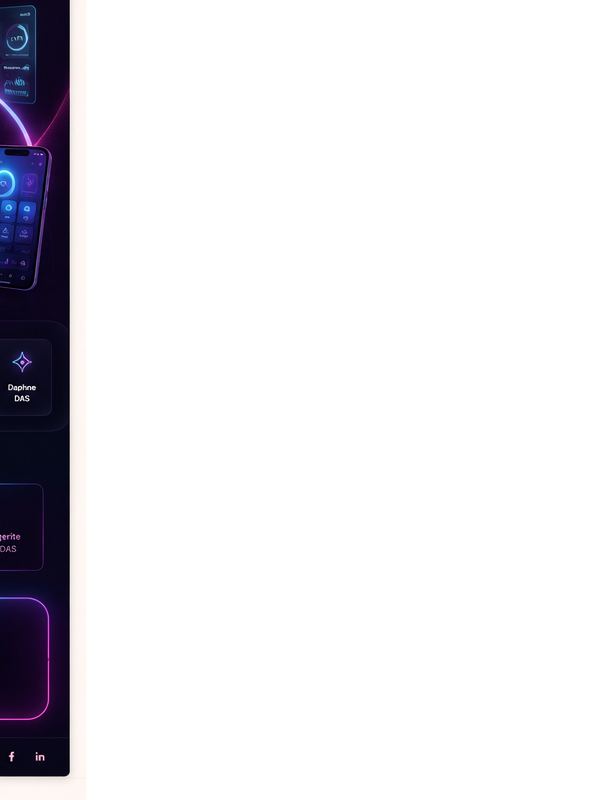
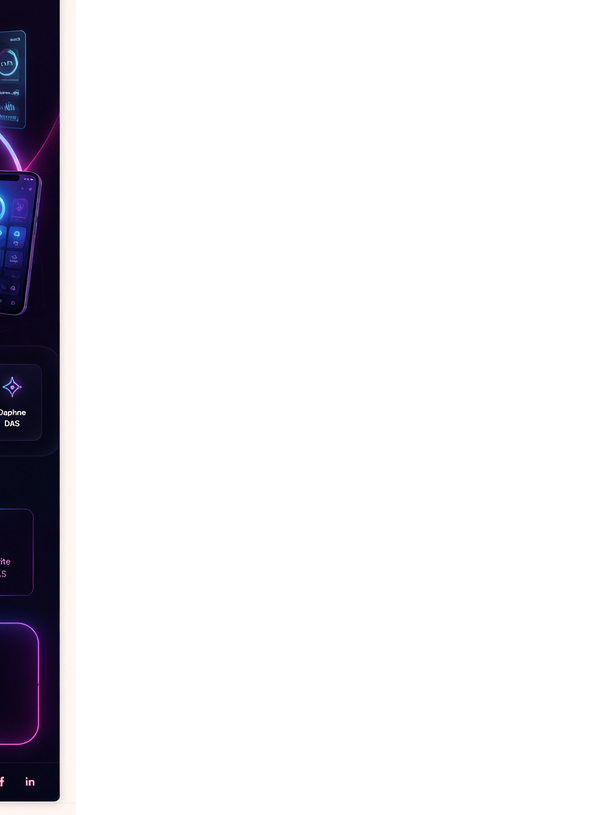
exp v3

Changed region(s): [[0.0, 0.0, 0.122, 1.0], [0.0, 0.4375, 0.061, 0.5312], [0.0, 0.5938, 0.0305, 0.625]]

diff --git a/js/experience.js b/js/experience.js
@@ -1,5 +1,4 @@
 const systemStatus=document.getElementById("system-status");
-const statusWrap=document.querySelector(".status");
 const daphneState=document.getElementById("daphne-state");
 const daphneTitle=document.getElementById("daphne-title");
 const daphneCopy=document.getElementById("daphne-copy");
@@ -10,38 +9,34 @@ const moduleTitle=document.getElementById("module-title");
 const analysisStatus=document.getElementById("analysis-status");
 const navButtons=[...document.querySelectorAll(".module-nav button")];
 const moduleViews=[...document.querySelectorAll(".module-view")];
-const conversation=document.getElementById("conversation");
 const form=document.getElementById("conversation-form");
 const input=document.getElementById("conversation-input");
 const quick=document.getElementById("quick");
+const pauseButton=document.getElementById("pause");
+const prevButton=document.getElementById("prev");
+const nextButton=document.getElementById("next");
 const restart=document.getElementById("restart");
 
 const scenes=[
-  {id:"agenda",step:"01 · Osservo",state:"DAPHNE STA GUARDANDO L’AGENDA",title:"Partirei da qui.",copy:"Vedo una finestra libera nella cabina 3. Prima di cercare nuovi clienti, proverei a riempire ciò che hai già disponibile.",label:"AGENDA",moduleTitle:"Guardo dove il centro perde tempo.",duration:4500,progress:25},
-  {id:"clients",step:"02 · Collego",state:"DAPHNE STA COLLEGANDO I DATI",title:"Aspetta.",copy:"Queste sette clienti stanno entrando nella zona di inattività. È qui che il centro può perdere fatturato senza accorgersene.",label:"CLIENTI",moduleTitle:"Cerco chi rischia di non tornare.",duration:5000,progress:50},
-  {id:"marketing",step:"03 · Agisco",state:"DAPHNE PREPARA UN’AZIONE",title:"Non parlerei a tutte.",copy:"Preparerei una comunicazione diversa solo per chi ha davvero motivo di tornare adesso.",label:"MARKETING",moduleTitle:"Scelgo chi contattare e come.",duration:5000,progress:75},
-  {id:"insights",step:"04 · Decido",state:"DAPHNE INTERPRETA I NUMERI",title:"Ora il quadro è più chiaro.",copy:"Il fatturato sta crescendo, ma il ritorno clienti può crescere di più. È da lì che inizierei domani mattina.",label:"BUSINESS INTELLIGENCE",moduleTitle:"Collego i numeri prima di decidere.",duration:5500,progress:100}
+  {id:"agenda",step:"01 · Agenda",state:"DAPHNE OSSERVA",title:"Partirei da qui.",copy:"Vedo una finestra libera nella cabina 3. Prima di cercare nuovi clienti, proverei a riempire ciò che hai già disponibile.",label:"AGENDA",moduleTitle:"Guardo dove il centro perde tempo."},
+  {id:"clients",step:"02 · Clienti",state:"DAPHNE COLLEGA",title:"Aspetta.",copy:"Queste sette clienti stanno entrando nella zona di inattività. È qui che il centro può perdere fatturato senza accorgersene.",label:"CLIENTI",moduleTitle:"Cerco chi rischia di non tornare."},
+  {id:"marketing",step:"03 · Marketing",state:"DAPHNE AGISCE",title:"Non parlerei a tutte.",copy:"Preparerei una comunicazione diversa solo per chi ha davvero motivo di tornare adesso.",label:"MARKETING",moduleTitle:"Scelgo chi contattare e come."},
+  {id:"insights",step:"04 · Numeri",state:"DAPHNE INTERPRETA",title:"Ora il quadro è più chiaro.",copy:"Il fatturato sta crescendo, ma il ritorno clienti può crescere di più. È da lì che inizierei domani mattina.",label:"BUSINESS INTELLIGENCE",moduleTitle:"Collego i numeri prima di decidere."}
 ];
+
+let current=0;
+let paused=false;
+let timer=null;
+const sceneDuration=11000;
 
 function showModule(id){
   navButtons.forEach(b=>b.classList.toggle("active",b.dataset.module===id));
   moduleViews.forEach(v=>v.classList.toggle("active",v.id===`module-${id}`));
 }
 
-function runScene(index){
-  const scene=scenes[index];
-  if(!scene){
-    daphneState.textContent="DAPHNE";
-    daphneTitle.textContent="Adesso raccontami il tuo centro.";
-    daphneCopy.textContent="Ho voluto mostrarti come lavoro. Ora voglio capire se posso farlo anche per te.";
-    stepLabel.textContent="05 · Ti ascolto";
-    systemStatus.textContent="Daphne è pronta";
-    statusWrap.classList.add("ready");
-    analysisStatus.textContent="Dimostrazione conclusa";
-    conversation.classList.add("show");
-    return;
-  }
-
+function renderScene(index, schedule=true){
+  current=(index+scenes.length)%scenes.length;
+  const scene=scenes[current];
   showModule(scene.id);
   stepLabel.textContent=scene.step;
   daphneState.textContent=scene.state;
@@ -50,14 +45,43 @@ function runScene(index){
   moduleLabel.textContent=scene.label;
   moduleTitle.textContent=scene.moduleTitle;
   analysisStatus.textContent="Daphne sta lavorando";
-  progress.style.width=`${scene.progress}%`;
+  progress.style.width=`${((current+1)/scenes.length)*100}%`;
+  systemStatus.textContent="Daphne è pronta";
 
-  setTimeout(()=>runScene(index+1),scene.duration);
+  clearTimeout(timer);
+  if(schedule && !paused){
+    timer=setTimeout(()=>renderScene(current+1,true),sceneDuration);
+  }
 }
 
-setTimeout(()=>runScene(0),1800);
+renderScene(0,true);
 
-navButtons.forEach(button=>button.addEventListener("click",()=>showModule(button.dataset.module)));
+pauseButton.addEventListener("click",()=>{
+  paused=!paused;
+  pauseButton.textContent=paused?"Riprendi":"Pausa";
+  if(paused){
+    clearTimeout(timer);
+  }else{
+    renderScene(current,true);
+  }
+});
+
+prevButton.addEventListener("click",()=>{
+  clearTimeout(timer);
+  renderScene(current-1,!paused);
+});
+nextButton.addEventListener("click",()=>{
+  clearTimeout(timer);
+  renderScene(current+1,!paused);
+});
+
+navButtons.forEach(button=>button.addEventListener("click",()=>{
+  paused=true;
+  pauseButton.textContent="Riprendi";
+  clearTimeout(timer);
+  const index=scenes.findIndex(s=>s.id===button.dataset.module);
+  renderScene(index,false);
+}));
 
 function moduleFor(text){
   const t=text.toLowerCase();
@@ -85,19 +109,28 @@ function replyFor(text){
 form.addEventListener("submit",event=>{
   event.preventDefault();
   const value=input.value.trim();
-  if(!value) return;
-  showModule(moduleFor(value));
+  if(!value)return;
+
+  paused=true;
+  pauseButton.textContent="Riprendi";
+  clearTimeout(timer);
+
+  const target=moduleFor(value);
+  const index=scenes.findIndex(s=>s.id===target);
+  renderScene(index,false);
+
   daphneState.textContent="DAPHNE STA PENSANDO";
   daphneTitle.textContent="Fammi collegare quello che mi hai detto.";
   daphneCopy.textContent="Sto costruendo una prima lettura del tuo centro.";
   analysisStatus.textContent="Prima lettura in corso";
   input.value="";
+
   setTimeout(()=>{
     daphneState.textContent="PRIMA LETTURA";
     daphneTitle.textContent=replyFor(value);
     daphneCopy.textContent="Sul sito posso mostrarti il metodo. Dentro AESTRA lavorerei sui dati reali.";
     analysisStatus.textContent="Prima lettura pronta";
-  },1800);
+  },2200);
 });
 
 quick.addEventListener("click",event=>{

diff --git a/index.html b/index.html
@@ -4,7 +4,6 @@
   <meta charset="utf-8">
   <meta name="viewport" content="width=device-width,initial-scale=1">
   <title>AESTRA — Daphne Experience</title>
-  <meta name="description" content="AESTRA e Daphne: un nuovo modo di gestire il centro estetico.">
   <link rel="preconnect" href="https://fonts.googleapis.com">
   <link rel="preconnect" href="https://fonts.gstatic.com" crossorigin>
   <link href="https://fonts.googleapis.com/css2?family=Cormorant+Garamond:wght@500;600&family=Inter:wght@400;500;600&display=swap" rel="stylesheet">
@@ -17,26 +16,44 @@
         <span class="brand-symbol">A</span>
         <div><strong>AESTRA</strong><small>Beauty Operating System</small></div>
       </div>
-      <div class="status"><i></i><span id="system-status">Daphne si sta collegando</span></div>
-      <button id="restart">Ricomincia</button>
+      <div class="status"><i></i><span id="system-status">Daphne è pronta</span></div>
+      <div class="top-actions">
+        <button id="pause">Pausa</button>
+        <button id="restart">Ricomincia</button>
+      </div>
     </header>
 
     <section class="stage">
       <aside class="daphne-stage">
-        <div class="portrait-wrap">
-          <div class="portrait-aura"></div>
-          <img src="assets/daphne.png" alt="Daphne, Digital AESTRA Specialist">
+        <div class="portrait">
+          <img src="assets/daphne.png" alt="Daphne">
+          <div class="portrait-fade"></div>
         </div>
 
-        <div class="daphne-dialogue">
+        <div class="dialogue">
           <small id="daphne-state">DAPHNE</small>
           <h1 id="daphne-title">Ciao, sono Daphne.</h1>
-          <p id="daphne-copy">Prima di raccontarti AESTRA, voglio farti vedere come lavorerei con te.</p>
+          <p id="daphne-copy">Raccontami come lavori e proverò a capire se posso aiutarti.</p>
         </div>
 
-        <div class="sequence-progress">
-          <span id="step-label">01 · Ti ascolto</span>
-          <div><i id="progress"></i></div>
+        <form class="conversation" id="conversation-form">
+          <input id="conversation-input" maxlength="500" autocomplete="off" placeholder="Inizia da dove preferisci…">
+          <button type="submit">Parla con Daphne <span>→</span></button>
+        </form>
+
+        <div class="quick" id="quick">
+          <button data-prompt="Ho 4 cabine e 6 collaboratrici.">4 cabine e 6 collaboratrici</button>
+          <button data-prompt="Le clienti non tornano.">Le clienti non tornano</button>
+          <button data-prompt="Voglio aumentare il fatturato.">Aumentare il fatturato</button>
+        </div>
+
+        <div class="sequence-controls">
+          <button id="prev">←</button>
+          <div>
+            <span id="step-label">01 · Agenda</span>
+            <div class="progress"><i id="progress"></i></div>
+          </div>
+          <button id="next">→</button>
         </div>
       </aside>
 
@@ -65,10 +82,7 @@
               <div class="agenda-row"><b>Cabina 3</b><i class="slot sand s6">Epilazione</i><i class="slot free s7">15:30 libera</i><i class="slot lilac s8">Viso</i></div>
               <div class="agenda-row"><b>Cabina 4</b><i class="slot rose s9">Corpo</i><i class="slot green s10">Laser</i></div>
             </div>
-            <div class="insight-note">
-              <small>HO TROVATO</small>
-              <strong>Una finestra che può essere riempita oggi.</strong>
-            </div>
+            <div class="insight-note"><small>HO TROVATO</small><strong>Una finestra che può essere riempita oggi.</strong></div>
           </div>
 
           <div class="module-view" id="module-clients">
@@ -77,29 +91,23 @@
               <article><span>SC</span><div><strong>Sara C.</strong><small>Pacchetto viso quasi concluso</small></div><b>Da contattare</b></article>
               <article><span>AL</span><div><strong>Anna L.</strong><small>Follow-up mancante</small></div><b>Oggi</b></article>
             </div>
-            <div class="insight-note">
-              <small>HO TROVATO</small>
-              <strong>Sette clienti che rischiano di non tornare.</strong>
-            </div>
+            <div class="insight-note"><small>HO TROVATO</small><strong>Sette clienti che rischiano di non tornare.</strong></div>
           </div>
 
           <div class="module-view" id="module-marketing">
             <div class="campaign">
               <small>SEGMENTO CONSIGLIATO</small>
               <h3>Clienti inattive da 45–90 giorni</h3>
-              <p>Non invierei lo stesso messaggio a tutte. Preparerei una comunicazione personale, legata al trattamento precedente.</p>
+              <p>Preparerei una comunicazione personale, legata al trattamento precedente.</p>
               <div class="campaign-preview"><span>Anteprima</span><strong>“È passato un po’ di tempo…”</strong></div>
               <button>Prepara campagna</button>
             </div>
-            <div class="insight-note">
-              <small>HO DECISO</small>
-              <strong>Chi contattare, quando e con quale messaggio.</strong>
-            </div>
+            <div class="insight-note"><small>HO DECISO</small><strong>Chi contattare, quando e con quale messaggio.</strong></div>
           </div>
 
           <div class="module-view" id="module-insights">
             <div class="chart">
-              <svg viewBox="0 0 900 300" aria-label="Andamento">
+              <svg viewBox="0 0 900 300">
                 <defs><linearGradient id="area" x1="0" y1="0" x2="0" y2="1"><stop offset="0" stop-color="#c96f78" stop-opacity=".28"/><stop offset="1" stop-color="#c96f78" stop-opacity="0"/></linearGradient></defs>
                 <path class="chart-area" d="M0 246 C95 234,140 162,225 187 C306 210,360 112,438 142 C528 176,568 91,660 109 C744 126,793 58,900 45 L900 300 L0 300Z"/>
                 <path class="chart-line" d="M0 246 C95 234,140 162,225 187 C306 210,360 112,438 142 C528 176,568 91,660 109 C744 126,793 58,900 45"/>
@@ -110,32 +118,12 @@
                 <span><strong>82%</strong><small>occupazione</small></span>
               </div>
             </div>
-            <div class="insight-note">
-              <small>LA MIA LETTURA</small>
-              <strong>Il fatturato cresce, ma il ritorno clienti può crescere di più.</strong>
-            </div>
+            <div class="insight-note"><small>LA MIA LETTURA</small><strong>Il fatturato cresce, ma il ritorno clienti può crescere di più.</strong></div>
           </div>
-
-          <section class="conversation" id="conversation">
-            <div>
-              <small>ADESSO RACCONTAMI IL TUO CENTRO</small>
-              <h2>Voglio capire se posso aiutarti davvero.</h2>
-            </div>
-            <form id="conversation-form">
-              <input id="conversation-input" maxlength="500" autocomplete="off" placeholder="Inizia da dove preferisci…">
-              <button type="submit">Parla con Daphne <span>→</span></button>
-            </form>
-            <div class="quick" id="quick">
-              <button data-prompt="Ho 4 cabine e 6 collaboratrici.">4 cabine e 6 collaboratrici</button>
-              <button data-prompt="Le clienti non tornano.">Le clienti non tornano</button>
-              <button data-prompt="Voglio aumentare il fatturato.">Aumentare il fatturato</button>
-            </div>
-          </section>
         </div>
       </section>
     </section>
   </main>
-
   <script src="js/experience.js"></script>
 </body>
 </html>

diff --git a/css/experience.css b/css/experience.css
@@ -1,24 +1,25 @@
 :root{--bg:#f7efec;--paper:#fffdfa;--ink:#241918;--muted:#7f6a66;--rose:#be6973;--deep:#443033;--line:#e8d9d5}
 *{box-sizing:border-box}html,body{margin:0;height:100%;font-family:Inter,sans-serif;background:var(--bg);color:var(--ink)}button,input{font:inherit}
-.experience{height:100vh;min-height:780px;overflow:hidden;background:radial-gradient(circle at 24% 22%,rgba(225,159,156,.17),transparent 30%),linear-gradient(180deg,#fffaf8,#f5ece9)}
+.experience{height:100vh;min-height:780px;overflow:hidden;background:radial-gradient(circle at 22% 20%,rgba(225,159,156,.17),transparent 30%),linear-gradient(180deg,#fffaf8,#f5ece9)}
 .topbar{height:70px;display:grid;grid-template-columns:1fr auto 1fr;align-items:center;padding:0 24px;border-bottom:1px solid var(--line);background:rgba(255,253,250,.95);position:relative;z-index:20}
-.brand{display:flex;align-items:center;gap:10px}.brand-symbol{width:36px;height:36px;border:1px solid #cfa9a4;border-radius:50%;display:grid;place-items:center;color:var(--rose);font:600 19px "Cormorant Garamond",serif}.brand strong,.brand small{display:block}.brand strong{font:600 18px "Cormorant Garamond",serif;letter-spacing:.12em}.brand small{font-size:8px;color:#9d817c}.status{font-size:9px;color:#78645f}.status i{display:inline-block;width:7px;height:7px;border-radius:50%;background:#d29b72;margin-right:7px}.status.ready i{background:#78aa83}.topbar>button{justify-self:end;border:1px solid var(--line);border-radius:999px;background:#fff;padding:8px 11px;font-size:9px;color:#6f5c57}
-.stage{height:calc(100vh - 70px);display:grid;grid-template-columns:minmax(330px,.72fr) minmax(720px,1.45fr)}
-.daphne-stage{position:relative;padding:42px 32px 28px;overflow:hidden;border-right:1px solid var(--line);background:linear-gradient(160deg,rgba(255,252,249,.86),rgba(246,229,226,.82))}
-.portrait-wrap{position:absolute;inset:0 0 0 0;overflow:hidden}.portrait-wrap img{position:absolute;right:-4%;bottom:-2%;height:92%;width:auto;object-fit:cover;filter:saturate(.92) contrast(1.02)}.portrait-wrap:after{content:"";position:absolute;inset:0;background:linear-gradient(180deg,rgba(250,242,239,.04) 0%,rgba(250,242,239,.14) 46%,rgba(249,239,236,.93) 86%,#f6e9e6 100%),linear-gradient(90deg,#f8efec 0%,rgba(248,239,236,.14) 55%,transparent 100%)}.portrait-aura{position:absolute;right:2%;top:6%;width:72%;height:54%;border-radius:50%;background:radial-gradient(circle,rgba(226,154,154,.28),transparent 70%);filter:blur(24px)}
-.daphne-dialogue{position:relative;z-index:4;max-width:500px}.daphne-dialogue small{font-size:8px;letter-spacing:.16em;color:#9f676a}.daphne-dialogue h1{margin:12px 0 10px;font:600 clamp(45px,4.5vw,72px)/.9 "Cormorant Garamond",serif}.daphne-dialogue p{max-width:430px;margin:0;color:#705c58;font:500 22px/1.25 "Cormorant Garamond",serif}
-.sequence-progress{position:absolute;left:32px;right:32px;bottom:25px;z-index:5}.sequence-progress>span{font-size:8px;letter-spacing:.13em;color:#8f6f6b}.sequence-progress>div{height:4px;margin-top:9px;border-radius:999px;background:rgba(107,74,70,.12);overflow:hidden}.sequence-progress i{display:block;width:0;height:100%;background:linear-gradient(90deg,#bc6670,#e5aaa4);transition:width 2.4s ease}
-.software-stage{position:relative;padding:24px 28px 28px;overflow:hidden}
-.module-nav{height:45px;display:flex;gap:8px;align-items:center}.module-nav button{border:1px solid var(--line);border-radius:999px;background:rgba(255,255,255,.72);padding:9px 12px;font-size:8px;color:#806b66}.module-nav button.active{background:var(--deep);color:white;border-color:var(--deep)}
-.software-shell{position:absolute;left:28px;right:28px;top:76px;bottom:28px;border:1px solid var(--line);border-radius:28px;background:rgba(255,253,250,.95);box-shadow:0 30px 85px rgba(72,43,39,.13);overflow:hidden}
+.brand{display:flex;align-items:center;gap:10px}.brand-symbol{width:36px;height:36px;border:1px solid #cfa9a4;border-radius:50%;display:grid;place-items:center;color:var(--rose);font:600 19px "Cormorant Garamond",serif}.brand strong,.brand small{display:block}.brand strong{font:600 18px "Cormorant Garamond",serif;letter-spacing:.12em}.brand small{font-size:8px;color:#9d817c}.status{font-size:9px;color:#78645f}.status i{display:inline-block;width:7px;height:7px;border-radius:50%;background:#78aa83;margin-right:7px}.top-actions{justify-self:end;display:flex;gap:8px}.top-actions button{border:1px solid var(--line);border-radius:999px;background:#fff;padding:8px 11px;font-size:9px;color:#6f5c57}
+.stage{height:calc(100vh - 70px);display:grid;grid-template-columns:minmax(390px,.8fr) minmax(720px,1.4fr)}
+.daphne-stage{position:relative;padding:34px 30px 26px;overflow:hidden;border-right:1px solid var(--line);background:linear-gradient(160deg,rgba(255,252,249,.9),rgba(246,229,226,.84))}
+.portrait{position:absolute;inset:0;overflow:hidden}.portrait img{position:absolute;right:-3%;bottom:0;height:97%;width:auto;object-fit:cover}.portrait-fade{position:absolute;inset:0;background:linear-gradient(180deg,rgba(249,240,237,.04),rgba(249,240,237,.02) 45%,rgba(249,240,237,.7) 78%,#f5e8e5 100%),linear-gradient(90deg,#f8efec 0%,rgba(248,239,236,.1) 58%,transparent 100%)}
+.dialogue{position:relative;z-index:4;max-width:510px}.dialogue small{font-size:8px;letter-spacing:.16em;color:#9f676a}.dialogue h1{margin:12px 0 10px;font:600 clamp(48px,4.6vw,74px)/.9 "Cormorant Garamond",serif}.dialogue p{max-width:470px;margin:0;color:#705c58;font:500 23px/1.25 "Cormorant Garamond",serif}
+.conversation{position:absolute;left:30px;right:30px;bottom:112px;z-index:5;display:flex;gap:8px;padding:9px;border:1px solid rgba(91,61,57,.12);border-radius:16px;background:rgba(255,253,250,.86);backdrop-filter:blur(18px);box-shadow:0 18px 50px rgba(72,43,39,.08)}
+.conversation input{flex:1;border:0;outline:0;background:transparent;padding:8px 9px;font-size:11px}.conversation button{border:0;border-radius:12px;background:#c96f79;color:white;padding:10px 13px;font-size:8px;font-weight:600}
+.quick{position:absolute;left:30px;right:30px;bottom:72px;z-index:5;display:flex;gap:7px}.quick button{flex:1;border:1px solid rgba(91,61,57,.1);border-radius:10px;background:rgba(255,253,250,.7);color:#7e6964;padding:8px;font-size:7px}
+.sequence-controls{position:absolute;left:30px;right:30px;bottom:24px;z-index:5;display:grid;grid-template-columns:36px 1fr 36px;gap:10px;align-items:center}.sequence-controls>button{width:36px;height:36px;border-radius:50%;border:1px solid rgba(91,61,57,.12);background:rgba(255,253,250,.82);color:#7f6863}.sequence-controls>div>span{font-size:8px;letter-spacing:.12em;color:#8f6f6b}.progress{height:4px;margin-top:7px;border-radius:999px;background:rgba(107,74,70,.12);overflow:hidden}.progress i{display:block;width:25%;height:100%;background:linear-gradient(90deg,#bc6670,#e5aaa4);transition:width 1.4s ease}
+.software-stage{position:relative;padding:22px 26px 26px}.module-nav{height:45px;display:flex;gap:8px;align-items:center}.module-nav button{border:1px solid var(--line);border-radius:999px;background:rgba(255,255,255,.72);padding:9px 12px;font-size:8px;color:#806b66}.module-nav button.active{background:var(--deep);color:white;border-color:var(--deep)}
+.software-shell{position:absolute;left:26px;right:26px;top:72px;bottom:26px;border:1px solid var(--line);border-radius:28px;background:rgba(255,253,250,.95);box-shadow:0 30px 85px rgba(72,43,39,.13);overflow:hidden}
 .software-head{height:105px;padding:23px 26px;display:flex;justify-content:space-between;align-items:flex-start;border-bottom:1px solid var(--line)}.software-head small{font-size:8px;letter-spacing:.15em;color:#9f7974}.software-head h2{margin:8px 0 0;font:600 37px/1 "Cormorant Garamond",serif}.software-head>span{padding:8px 11px;border:1px solid var(--line);border-radius:999px;font-size:8px;color:#806b66}
-.module-view{position:absolute;left:0;right:0;top:105px;bottom:0;padding:22px 24px 120px;opacity:0;transform:translateX(26px);pointer-events:none;transition:opacity 1s ease,transform 1.1s cubic-bezier(.2,.8,.2,1)}.module-view.active{opacity:1;transform:none;pointer-events:auto}
+.module-view{position:absolute;left:0;right:0;top:105px;bottom:0;padding:22px 24px 32px;opacity:0;transform:translateX(18px);pointer-events:none;transition:opacity 1.3s ease,transform 1.4s cubic-bezier(.2,.8,.2,1)}.module-view.active{opacity:1;transform:none;pointer-events:auto}
 .agenda-board,.client-list,.campaign,.chart{height:100%;border:1px solid var(--line);border-radius:22px;background:#fff;padding:22px}
 .hours{display:grid;grid-template-columns:85px repeat(10,1fr);font-size:8px;color:#ac9792}.hours:before{content:""}.hours span{text-align:center}.agenda-row{position:relative;display:grid;grid-template-columns:85px repeat(10,1fr);align-items:center;min-height:62px;border-top:1px solid #efe5e2}.agenda-row b{font-size:9px;color:#7b6762}.agenda-row:after{content:"";position:absolute;left:85px;right:0;top:0;bottom:0;background:repeating-linear-gradient(90deg,transparent 0,transparent calc(10% - 1px),#f3ece9 calc(10% - 1px),#f3ece9 10%)}.slot{z-index:1;padding:10px 7px;border-radius:9px;text-align:center;font:8px Inter,sans-serif;font-style:normal}.rose{background:#f0d8d5}.sand{background:#eee5d8}.lilac{background:#e7deea}.green{background:#e0e9e2}.free{border:1px dashed #d79aa0;background:#fff9f8;color:#bc6971}.s1{grid-column:2/4}.s2{grid-column:5/7}.s3{grid-column:8/11}.s4{grid-column:3/6}.s5{grid-column:7/10}.s6{grid-column:2/5}.s7{grid-column:6/8}.s8{grid-column:9/11}.s9{grid-column:4/7}.s10{grid-column:8/11}
-.insight-note{position:absolute;right:45px;bottom:138px;max-width:420px;padding:15px 17px;border-radius:17px;background:rgba(68,48,51,.95);color:#fff;box-shadow:0 18px 55px rgba(45,26,26,.24)}.insight-note small,.insight-note strong{display:block}.insight-note small{font-size:7px;letter-spacing:.15em;color:#e5aaa7}.insight-note strong{margin-top:6px;font:600 21px "Cormorant Garamond",serif}
+.insight-note{position:absolute;right:45px;bottom:40px;max-width:420px;padding:15px 17px;border-radius:17px;background:rgba(68,48,51,.95);color:#fff;box-shadow:0 18px 55px rgba(45,26,26,.24)}.insight-note small,.insight-note strong{display:block}.insight-note small{font-size:7px;letter-spacing:.15em;color:#e5aaa7}.insight-note strong{margin-top:6px;font:600 21px "Cormorant Garamond",serif}
 .client-list article{display:grid;grid-template-columns:42px 1fr auto;gap:13px;align-items:center;padding:18px 0;border-bottom:1px solid #eee4e1}.client-list article:last-child{border-bottom:0}.client-list article.selected{background:linear-gradient(90deg,rgba(240,221,218,.48),transparent);margin:0 -22px;padding-left:22px;padding-right:22px}.client-list article>span{width:38px;height:38px;border-radius:50%;display:grid;place-items:center;background:#f0ddda;color:#a6636a;font-size:9px}.client-list strong,.client-list small{display:block}.client-list strong{font-size:12px}.client-list small{font-size:9px;color:#88736e;margin-top:3px}.client-list b{font-size:9px;color:#a66269}
 .campaign{max-width:700px}.campaign>small{font-size:8px;letter-spacing:.15em;color:#a17d77}.campaign h3{margin:12px 0;font:600 44px/1 "Cormorant Garamond",serif}.campaign p{max-width:600px;color:#806b66;line-height:1.6}.campaign-preview{margin:26px 0;padding:19px;border:1px solid var(--line);border-radius:17px;background:#fff8f6}.campaign-preview span,.campaign-preview strong{display:block}.campaign-preview span{font-size:8px;color:#9c7772}.campaign-preview strong{margin-top:7px;font:600 26px "Cormorant Garamond",serif}.campaign button{border:0;border-radius:999px;background:#c96f79;color:white;padding:12px 16px;font-size:9px}
-.chart svg{width:100%;height:250px}.chart-area{fill:url(#area)}.chart-line{fill:none;stroke:#c96f78;stroke-width:4;stroke-linecap:round;stroke-dasharray:1200;stroke-dashoffset:1200}.module-view.active .chart-line{animation:draw 2.8s ease forwards}@keyframes draw{to{stroke-dashoffset:0}}.kpis{display:grid;grid-template-columns:repeat(3,1fr);gap:12px}.kpis span{padding:16px;border:1px solid #eee3df;border-radius:15px}.kpis strong,.kpis small{display:block}.kpis strong{font:600 28px "Cormorant Garamond",serif}.kpis small{font-size:8px;color:#89746f}
-.conversation{position:absolute;left:24px;right:24px;bottom:18px;padding:15px 17px;border:1px solid rgba(255,255,255,.15);border-radius:20px;background:rgba(68,48,51,.96);color:white;box-shadow:0 20px 70px rgba(45,26,26,.3);opacity:0;transform:translateY(18px);pointer-events:none;transition:opacity .9s ease,transform .9s ease}.conversation.show{opacity:1;transform:none;pointer-events:auto}.conversation small{font-size:7px;letter-spacing:.15em;color:#e5aaa7}.conversation h2{margin:5px 0 10px;font:600 25px "Cormorant Garamond",serif}#conversation-form{display:flex;gap:8px;padding:8px;border:1px solid rgba(255,255,255,.11);border-radius:14px;background:rgba(255,255,255,.06)}#conversation-input{flex:1;border:0;outline:0;background:transparent;color:white;padding:7px 8px;font-size:10px}#conversation-input::placeholder{color:#b9a29d}#conversation-form button{border:0;border-radius:11px;background:#d47781;color:white;padding:10px 13px;font-size:8px}.quick{display:flex;gap:7px;margin-top:8px}.quick button{flex:1;border:1px solid rgba(255,255,255,.08);border-radius:9px;background:transparent;color:#cbb5b0;padding:8px;font-size:7px}
-@media(max-width:1050px){.experience{height:auto;min-height:100vh;overflow:auto}.stage{height:auto;min-height:1350px;grid-template-columns:1fr}.daphne-stage{min-height:620px;border-right:0;border-bottom:1px solid var(--line)}.software-stage{min-height:730px}.portrait-wrap img{right:0;height:100%}}
-@media(max-width:720px){.topbar{grid-template-columns:1fr auto}.status{display:none}.daphne-stage{min-height:560px;padding:28px 18px}.portrait-wrap img{right:-30%;height:94%}.daphne-dialogue h1{font-size:48px}.software-stage{padding:14px}.module-nav{overflow-x:auto}.software-shell{left:14px;right:14px;top:65px}.software-head{height:125px;padding:18px}.software-head h2{font-size:30px}.module-view{top:125px;padding:14px 14px 165px}.agenda-board{overflow-x:auto}.agenda-board>*{min-width:720px}.quick{display:none}}
+.chart svg{width:100%;height:250px}.chart-area{fill:url(#area)}.chart-line{fill:none;stroke:#c96f78;stroke-width:4;stroke-linecap:round;stroke-dasharray:1200;stroke-dashoffset:1200}.module-view.active .chart-line{animation:draw 3.6s ease forwards}@keyframes draw{to{stroke-dashoffset:0}}.kpis{display:grid;grid-template-columns:repeat(3,1fr);gap:12px}.kpis span{padding:16px;border:1px solid #eee3df;border-radius:15px}.kpis strong,.kpis small{display:block}.kpis strong{font:600 28px "Cormorant Garamond",serif}.kpis small{font-size:8px;color:#89746f}
+@media(max-width:1050px){.experience{height:auto;min-height:100vh;overflow:auto}.stage{height:auto;min-height:1380px;grid-template-columns:1fr}.daphne-stage{min-height:650px;border-right:0;border-bottom:1px solid var(--line)}.software-stage{min-height:730px}.portrait img{right:0;height:100%}}
+@media(max-width:720px){.topbar{grid-template-columns:1fr auto}.status{display:none}.daphne-stage{min-height:610px;padding:26px 16px}.portrait img{right:-22%;height:96%}.dialogue h1{font-size:48px}.conversation,.quick,.sequence-controls{left:16px;right:16px}.quick{display:none}.software-stage{padding:14px}.module-nav{overflow-x:auto}.software-shell{left:14px;right:14px;top:65px}.software-head{height:125px;padding:18px}.software-head h2{font-size:30px}.module-view{top:125px;padding:14px}.agenda-board{overflow-x:auto}.agenda-board>*{min-width:720px}}

diff --git a/README.md b/README.md
@@ -1,10 +1,10 @@
-# AESTRA Experience V2 — Daphne
+# AESTRA Experience V3 — Interactive Slow
 
-Correzioni principali:
-- Daphne grande e visibile per tutta l’esperienza;
-- volto e dialogo sempre presenti;
-- sequenza molto più lenta;
-- testi più personali e umani;
-- un solo modulo alla volta;
-- conversazione disponibile solo dopo la dimostrazione;
-- test immediato senza API.
+Correzioni:
+- volto corretto di Daphne;
+- Daphne sempre visibile;
+- interazione disponibile immediatamente;
+- sequenza rallentata a 11 secondi per scena;
+- pulsanti Pausa, Riprendi, Avanti e Indietro;
+- clic manuale sui moduli;
+- la conversazione interrompe automaticamente la demo.